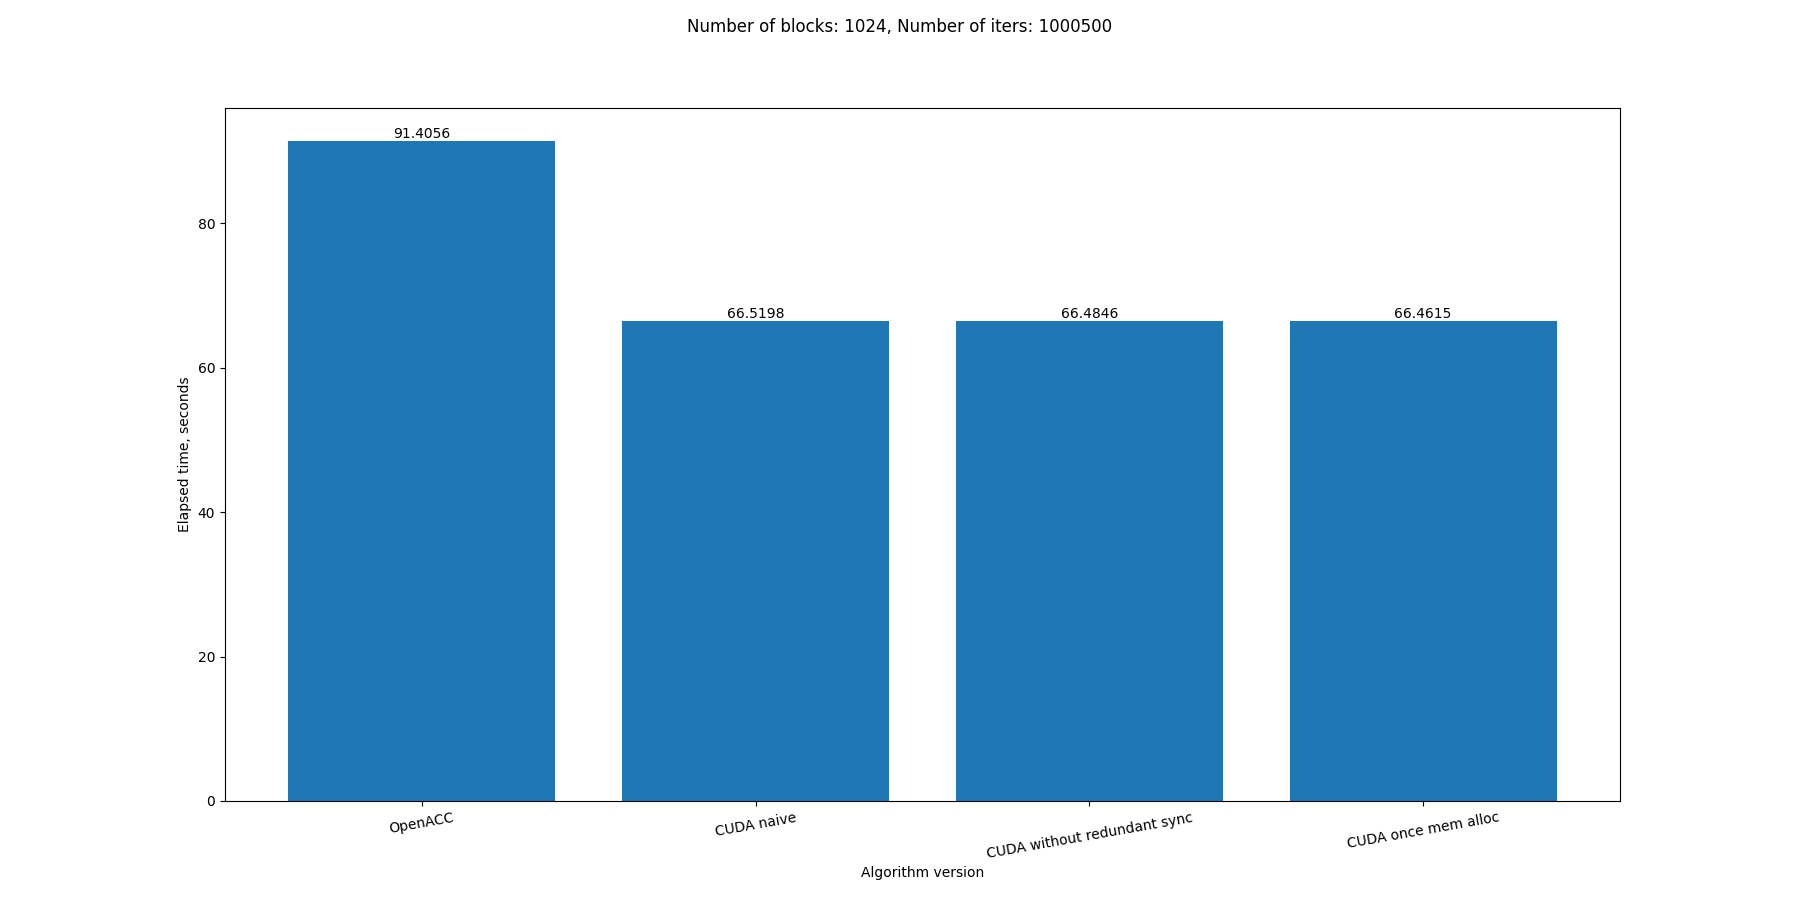
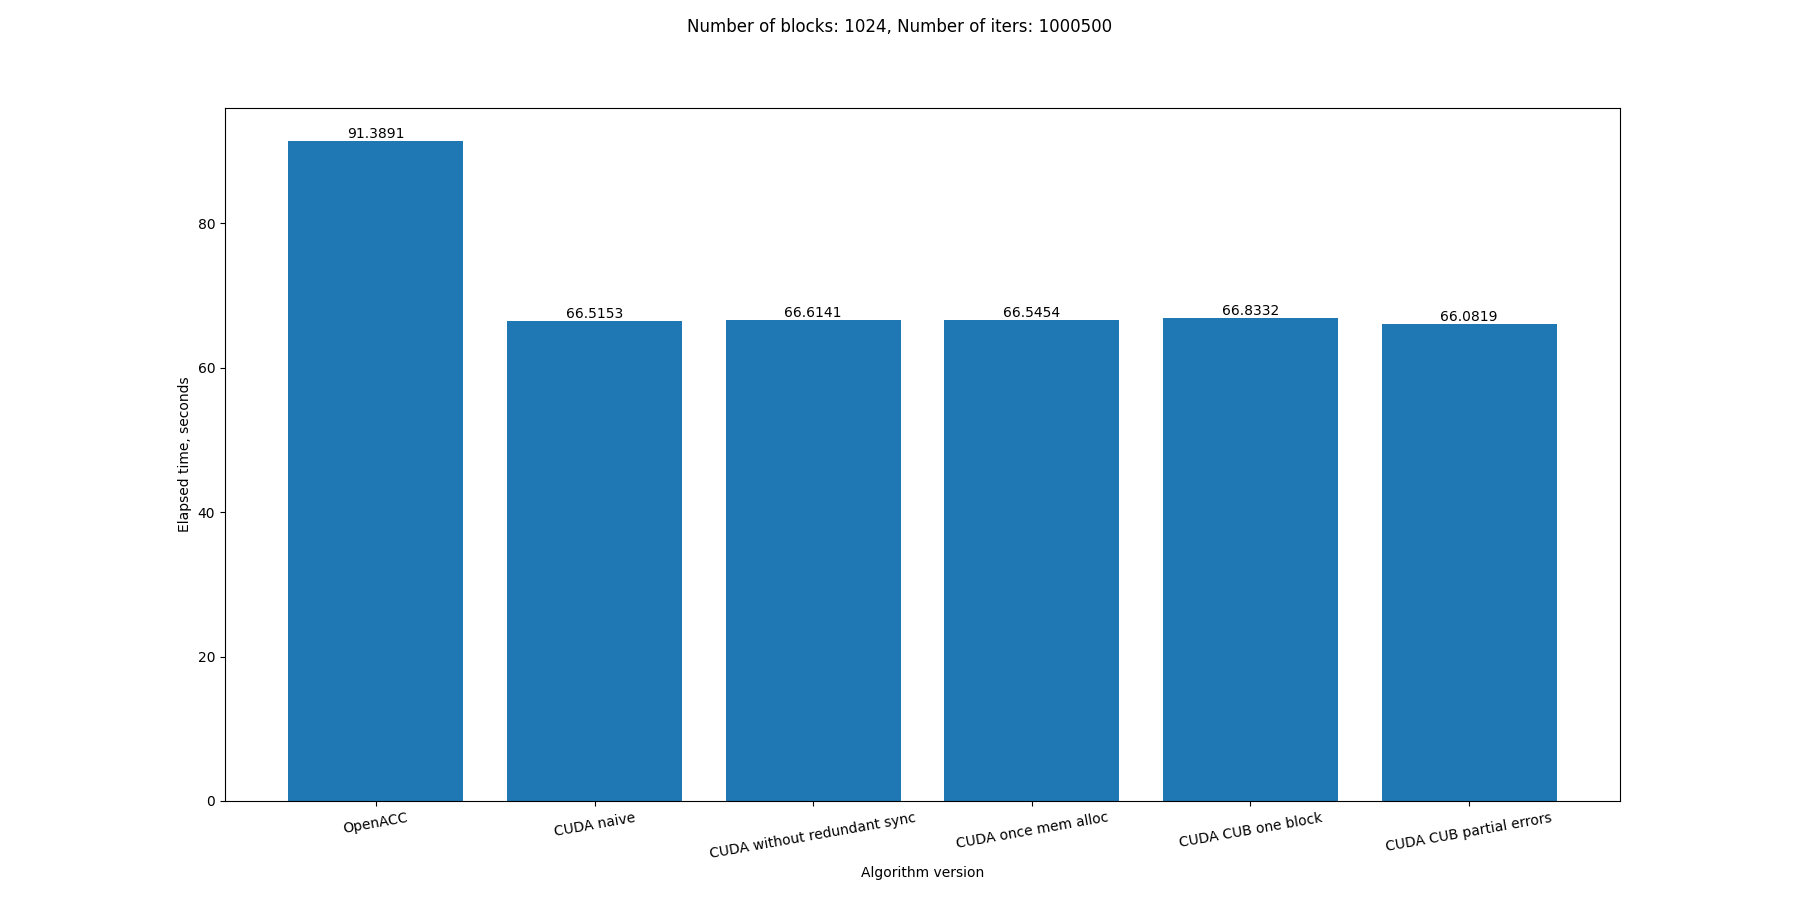
Versions with CUB

diff --git a/visualize_benchmarks.py b/visualize_benchmarks.py
@@ -10,28 +10,27 @@ iters_without_err_col = 'Iters without err counting'
 
 def plot_benchmarks_by_target():
     versions = ['OpenACC', 'CUDA naive',
-                'CUDA without redundant sync', 'CUDA once mem alloc']
-    n_blocks_iters_unique = np.unique(benchmarks_pd[['Grid size', 'Number of iters']], axis=0)
-    
-    print(n_blocks_iters_unique)
-
-    
+                'CUDA without redundant sync', 'CUDA once mem alloc',
+                'CUDA CUB one block', 'CUDA CUB partial errors']
+    n_blocks_iters_unique = np.unique(
+        benchmarks_pd[['Grid size', 'Number of iters']], axis=0)
 
     for n_blocks, n_iters in n_blocks_iters_unique:
         fig, ax = plt.subplots(figsize=(18, 9))
         print()
         benchmarks_by_blocks_iters = benchmarks_pd[(benchmarks_pd['Grid size'] == n_blocks) &
-                                             (benchmarks_pd['Number of iters'] == n_iters)]
+                                                   (benchmarks_pd['Number of iters'] == n_iters)]
 
         bars = ax.bar(benchmarks_by_blocks_iters['Algo ver'],
-               benchmarks_by_blocks_iters['Elapsed Time'])
+                      benchmarks_by_blocks_iters['Elapsed Time'])
         ax.set_xlabel('Algorithm version')
         ax.set_ylabel('Elapsed time, seconds')
         ax.set_xticks(list(range(len(benchmarks_by_blocks_iters['Algo ver']))))
         ax.set_xticklabels(benchmarks_by_blocks_iters['Algo ver'], rotation=10)
         ax.bar_label(bars)
 
-        fig.suptitle(f'Number of blocks: {n_blocks}, Number of iters: {n_iters}')
+        fig.suptitle(
+            f'Number of blocks: {n_blocks}, Number of iters: {n_iters}')
         fig.savefig(f'benchmarks_{n_blocks}_blocks_{n_iters}_iters.png')
 
 

diff --git a/README.md b/README.md
@@ -3,7 +3,7 @@
 ## Задание
 В данной работе нужно было реализовать уравнение теплопроводности в двумерной области на  равномерных сетках с начальной инициализацией в сетки в граничных точках.
 
-Нужно было реализовать программу на GPU с использованием CUDA, а часть подсчета ошибки реализовать с использованием библиотеки cuBLAS. 
+Нужно было реализовать программу на GPU с использованием CUDA, а часть подсчета ошибки реализовать с использованием библиотеки CUB. 
 
 ## Ход работы
 
@@ -39,17 +39,34 @@
 
 ### <ins>Версия 3</ins>
 
-Далее появилась идея избавиться от лишних `DtoD`-копирования и `cudaFree`. Для этого память под ошибку **err** и под индекс ошибки **err_idx** была выделена до начала вычисления сетки, что помогло убрать лишние операции с памятью
+Далее появилась [идея](src/heat_equation_solver_cuda_once_mem_alloc.cu) избавиться от лишних `DtoD`-копирования и `cudaFree`. Для этого память под ошибку **err** и под индекс ошибки **err_idx** была выделена до начала вычисления сетки, что помогло убрать лишние операции с памятью.
 
 ![image](img/cuda_once_mem_alloc.png)
 <center>Профиль программы "Версия 3"</center>
 
+### <ins>Версия 4</ins>
+
+В данной [версии](src/heat_equation_solver_cuda_cub_one_block.cu) вместо cuBLAS была использована библиотека CUB для вычисления ошибки **err**. Для этого было написано ядро, которое в одном блоке подсчитывало ошибку **err**
+
+![image](img/cuda_cub_one_block.png)
+<center>Профиль "Версии 4"</center>
+
+### <ins>Версия 5</ins>
+
+Глядя на результат профилирования версии 4, можно заметить, что ядро вычисления ошибки **err** считается относительно долго. Причина этому - использование одного блока, так как единица вычисления на Streaming Multiprocesser - это warp, из которых в программной модели CUDA состоят блоки. 
+Для устранения этого ограничения была написана [программа](src/heat_equation_solver_cuda_cub_partial_errors.cu) с вычислением ошибки **err** в 2 этапа:
+1. Вычисление частичных ошибок в ядре `compute_partial_errors`, где каждому блоку сопоставляется ошибка среди индексов сетки, которые попали в блок
+2. Вычисление итоговой ошибки из частичных с использованием `cub::DeviceReduce`
+
+![image](img/cuda_cub_partial_errors.png)
+<center>Профиль "Версии 5"</center>
+
 ## Бенчмарки
-В результаты разные оптимизации программы на CUDA не дали особенный прирост в скорости работы программы, но все равно, вариант на CUDA оказался во всех случаях быстрее варианта на OpenACC
+В результаты разные оптимизации программы на CUDA не дали особенный прирост в скорости работы программы, но все равно, вариант на CUDA оказался во всех случаях быстрее варианта на OpenACC. Также можно заметить, что самый быстрый вариант из-за сокращенного вычисления ошибки - это "Версия 5", хотя прирост замечается при большом количестве итераций 
 
 ![image](benchmarks_512_blocks_633000_iters.png)
 ![image](benchmarks_1024_blocks_1000500_iters.png)
-![image](benchmarks_1024_blocks_2389500_iters.png)
-![image](benchmarks_1536_blocks_1000500_iters.png)
+![image](benchmarks_1024_blocks_1500000_iters.png)
+![image](benchmarks_1024_blocks_2001000_iters.png)
 
 <center>Бенчмарки разных версий программ</center>
